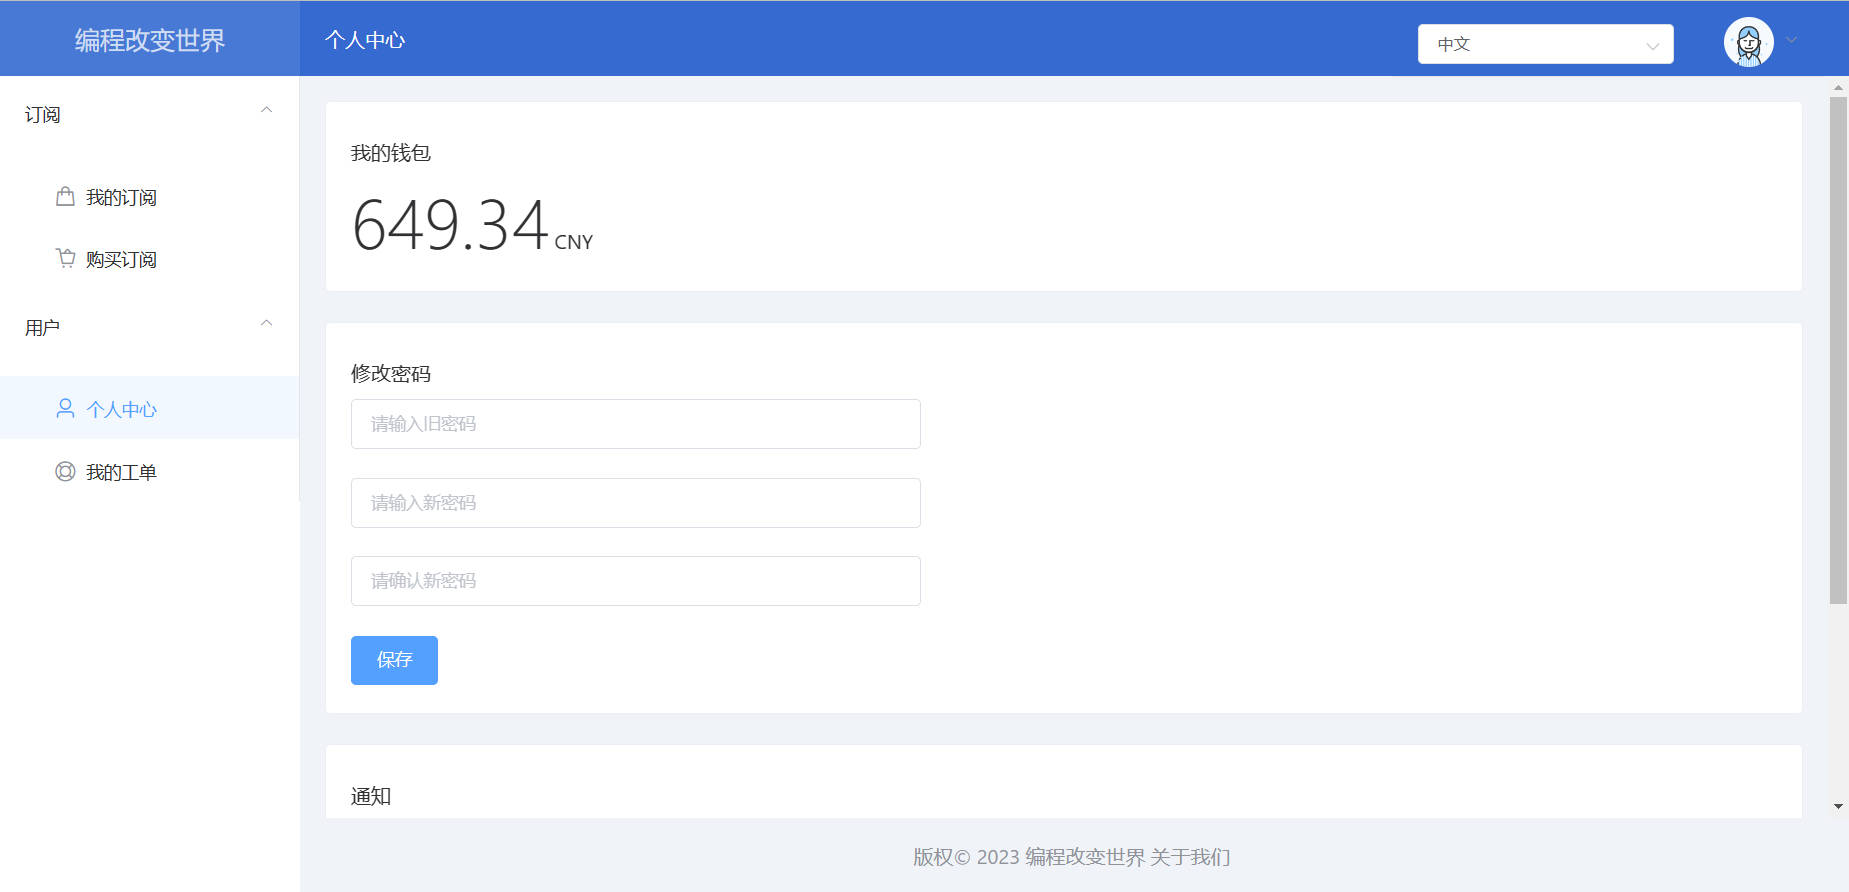
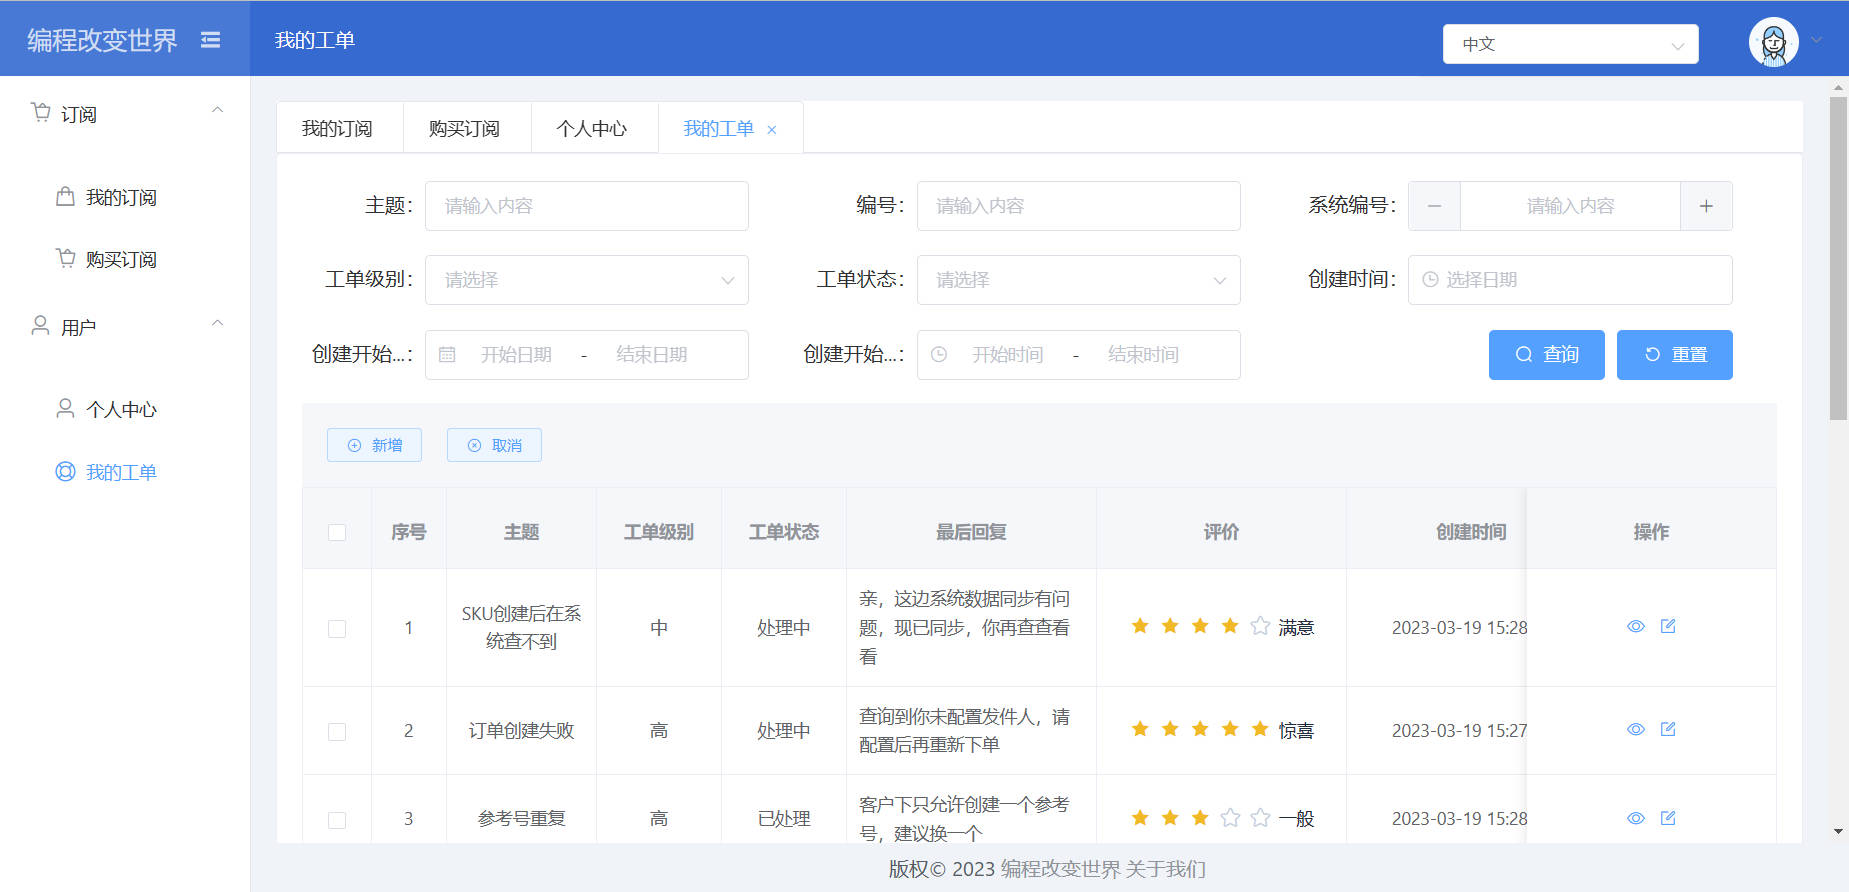
修复tab切换激活显示问题

diff --git a/data/menu.js b/data/menu.js
@@ -7,7 +7,6 @@ module.exports = [{
         component: '',
         // 重定向 
         redirect: null,
-        route: '',
         meta: {
             // 标记需要缓存
             keepAlive: true,
@@ -21,7 +20,6 @@ module.exports = [{
                 path: '/sub/subscribe',
                 component: 'pages/home/sub/subscribe',
                 redirect: null,
-                route: '',
                 meta: {
                     keepAlive: true,
                     title: '我的订阅',
@@ -35,7 +33,6 @@ module.exports = [{
                 path: '/sub/plan',
                 component: 'pages/home/sub/plan',
                 redirect: null,
-                route: '',
                 meta: {
                     keepAlive: true,
                     title: '购买订阅',
@@ -51,7 +48,6 @@ module.exports = [{
         path: '',
         component: '',
         redirect: null,
-        route: '',
         meta: {
             title: '用户',
             i18: 'com_lab_006',
@@ -63,7 +59,6 @@ module.exports = [{
                 path: '/user/profile',
                 component: 'pages/home/user/profile',
                 redirect: null,
-                route: '',
                 meta: {
                     keepAlive: true,
                     title: '个人中心',
@@ -77,7 +72,6 @@ module.exports = [{
                 path: '/user/ticket',
                 component: 'pages/home/user/ticket',
                 redirect: null,
-                route: '',
                 meta: {
                     keepAlive: true,
                     title: '我的工单',

diff --git a/src/components/tabs/index.vue b/src/components/tabs/index.vue
@@ -1,6 +1,6 @@
 <template>
-    <el-tabs v-if="tabs.length > 0" value="activeTab" type="card" tab-position="top" closable @tab-click="handleAcitiveTab"
-        @tab-remove="handleRemoveTab">
+    <el-tabs v-if="tabs.length > 0" v-model="activeTab" type="card" tab-position="top" closable
+        @tab-click="handleAcitiveTab" @tab-remove="handleRemoveTab">
         <el-tab-pane v-for="(item) in tabs" :key="item.name" :label="item.title" :name="item.name">
             {{ item.content }}
         </el-tab-pane>
@@ -10,6 +10,11 @@
 <script>
 export default {
     name: 'Tabs',
+    data() {
+        return {
+            activeTab: undefined
+        }
+    },
     methods: {
         handleAcitiveTab(vc) {
             // vc上可以获取激活的数据
@@ -22,10 +27,13 @@ export default {
             this.$bus.$emit("setActiveRouteKey", tabs[tabs.length - 1].name);
         }
     },
+    watch: {
+        // activeTab调整为双向绑定，不使用计算属性的方式，会影响激活显示
+        '$store.state.menu.activeRouteKey'(newVal) {
+            this.activeTab = newVal;
+        }
+    },
     computed: {
-        activeTab() {
-            return this.$store.state.menu.activeRouteKey;
-        },
         tabs() {
             return this.$store.state.menu.historyRoute.map(route => {
                 return {

diff --git a/src/components/aside/index.vue b/src/components/aside/index.vue
@@ -3,7 +3,7 @@
         <el-row class="tac">
             <el-col :span="24">
                 <el-menu class="el-menu-vertical" @select="handleSelect" :default-openeds="defaultOpeneds"
-                    :collapse="isCollapse">
+                    :default-active="activeRoute" :collapse="isCollapse">
                     <el-submenu :index="menu.name" v-for="menu in $store.state.menu.menu" :key="menu.id"
                         :display="isCollapse">
                         <template slot="title">
@@ -29,6 +29,7 @@ export default {
     name: 'Aside',
     data() {
         return {
+            activeRoute: '',
             isCollapse: false,
             collapseStyle: { width: '200px !important' },
         };
@@ -52,6 +53,12 @@ export default {
                 this.$store.dispatch('menu/setMenu', response.data);
             }
         },
+    },
+    watch: {
+        // activeRoute调整为双向绑定，不使用计算属性的方式，会影响激活显示
+        '$store.state.menu.activeRouteKey'(newVal) {
+            this.activeRoute = newVal;
+        }
     },
     computed: {
         // 默认打开一级菜单
